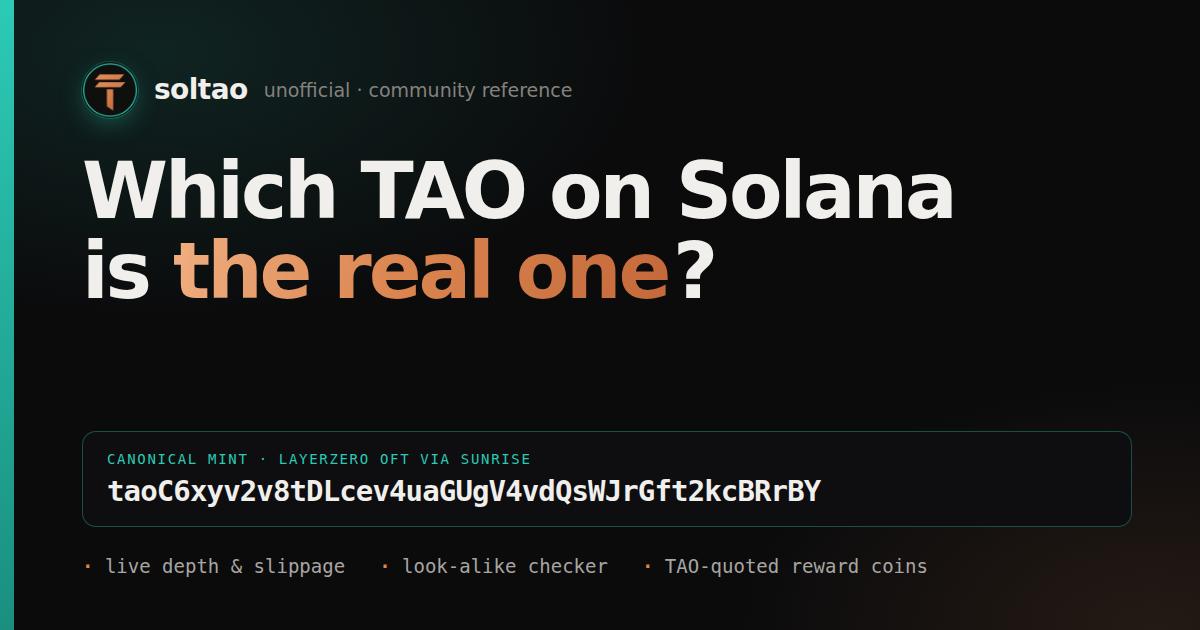
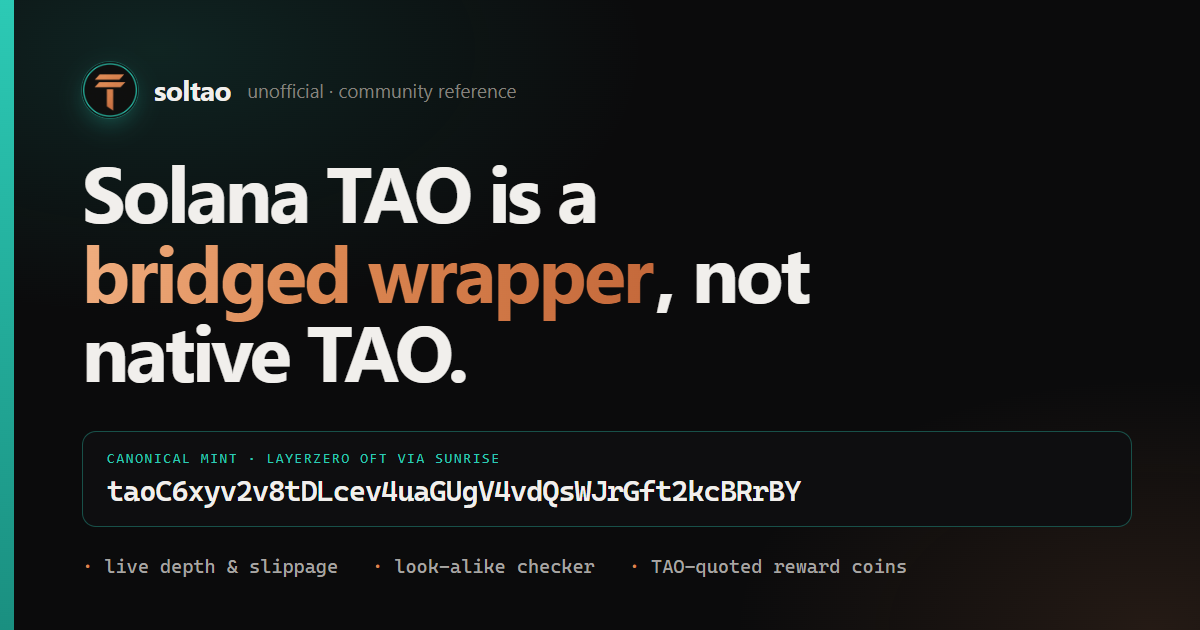
Fix stale and missing link-preview metadata
The homepage's og:/twitter: title and description still described the
site's pre-redesign framing ("which TAO is the real one") even though the
actual hero copy has moved to "Solana TAO is a bridged wrapper, not native
TAO" — anyone pasting the link got a preview that didn't match the page.
Updated both to match current on-page copy, and regenerated og.png from
og.html with the same new headline (verified: still exactly 1200x630, same
teal/copper tokens the redesign already uses).

/stake/ had no Open Graph or Twitter Card tags at all, so sharing that link
directly produced no rich preview. Added a full set, reusing the shared
og.png and the page's own existing meta description.

Also bumped sitemap.xml's stale lastmod dates.

diff --git a/index.html b/index.html
@@ -11,15 +11,15 @@
 
 <meta property="og:type" content="website">
 <meta property="og:site_name" content="Solana TAO Board">
-<meta property="og:title" content="Solana TAO Board — which TAO is the real one">
-<meta property="og:description" content="Canonical mint: taoC6xyv2v8tDLcev4uaGUgV4vdQsWJrGft2kcBRrBY. Live depth, thin-book alerts, imposter list, and the TAO-quoted reward coins.">
+<meta property="og:title" content="Solana TAO is a bridged wrapper, not native TAO">
+<meta property="og:description" content="Real and tradeable on Solana, but it earns no subnet emissions, no validator yield, no dTAO. Canonical mint, an imposter checker, live depth, and the route back to Bittensor to actually stake it.">
 <meta property="og:url" content="https://soltao.xyz/">
 <meta property="og:image" content="https://soltao.xyz/og.png">
 <meta property="og:image:width" content="1200">
 <meta property="og:image:height" content="630">
 <meta name="twitter:card" content="summary_large_image">
-<meta name="twitter:title" content="Solana TAO Board — which TAO is the real one">
-<meta name="twitter:description" content="Canonical mint, live depth, imposter list, TAO-quoted reward coins. No wallet connect, no backend.">
+<meta name="twitter:title" content="Solana TAO is a bridged wrapper, not native TAO">
+<meta name="twitter:description" content="Real and tradeable on Solana, but it earns no subnet emissions or validator yield. Canonical mint, imposter checker, live depth, and the route back to Bittensor.">
 <meta name="twitter:image" content="https://soltao.xyz/og.png">
 
 <link rel="icon" href="favicon.svg" type="image/svg+xml">

diff --git a/stake/index.html b/stake/index.html
@@ -9,6 +9,20 @@
 <meta name="theme-color" content="#0b0b0c">
 <meta name="color-scheme" content="dark">
 <meta name="robots" content="index,follow">
+
+<meta property="og:type" content="website">
+<meta property="og:site_name" content="Solana TAO Board">
+<meta property="og:title" content="Stake Solana TAO in a wallet you own — no contract, no custody">
+<meta property="og:description" content="Bridge canonical Solana TAO home to Bittensor and stake it in one Solana transaction. Every key is derived from your own signature; nobody else ever holds one.">
+<meta property="og:url" content="https://soltao.xyz/stake/">
+<meta property="og:image" content="https://soltao.xyz/og.png">
+<meta property="og:image:width" content="1200">
+<meta property="og:image:height" content="630">
+<meta name="twitter:card" content="summary_large_image">
+<meta name="twitter:title" content="Stake Solana TAO in a wallet you own — no contract, no custody">
+<meta name="twitter:description" content="Bridge canonical Solana TAO home to Bittensor and stake it in one Solana transaction. Every key comes from your own signature.">
+<meta name="twitter:image" content="https://soltao.xyz/og.png">
+
 <link rel="icon" href="../favicon.svg" type="image/svg+xml">
 <link rel="apple-touch-icon" href="../logo.png">
 <link rel="stylesheet" href="../styles.css">

diff --git a/og.html b/og.html
@@ -54,7 +54,7 @@
         <span class="name">soltao</span>
         <span class="sub">unofficial · community reference</span>
       </div>
-      <h1>Which TAO on Solana is <em>the real one</em>?</h1>
+      <h1>Solana TAO is a <em>bridged wrapper</em>, not native TAO.</h1>
     </div>
     <div>
       <div class="ca">
